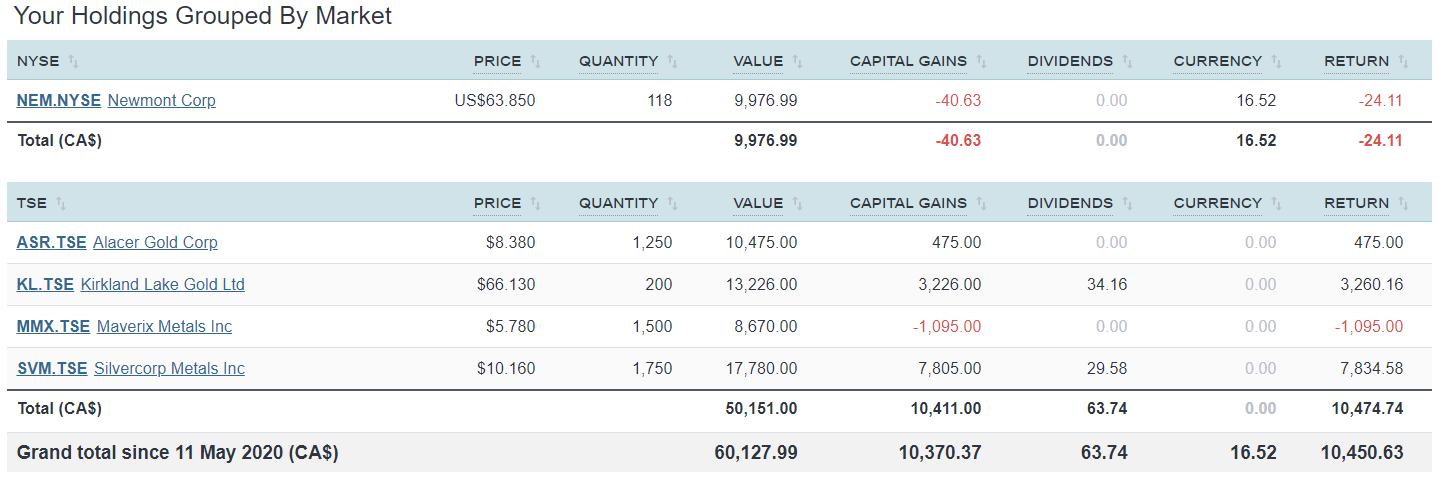
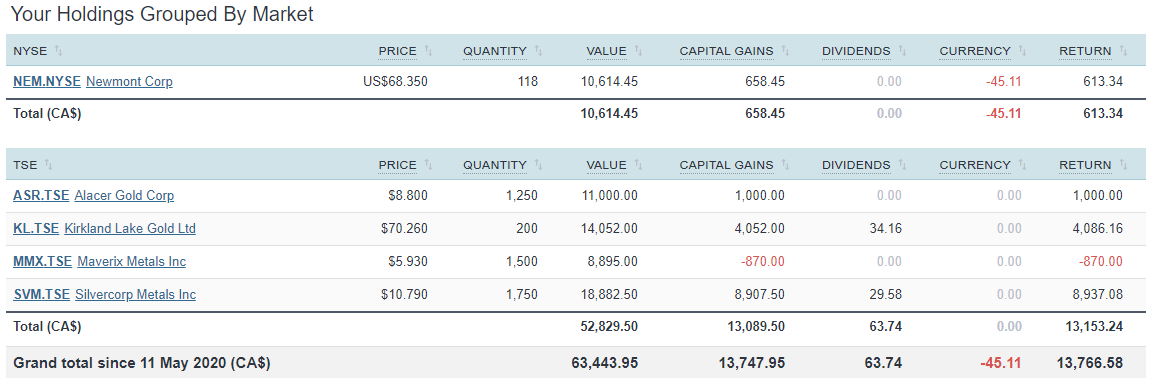
update

diff --git a/index.html b/index.html
@@ -292,10 +292,10 @@
         <div class="row  d-flex align-items-stretch">
 
 <p>
-  <h2>As of market close August 14, 2020</h2>
+  <h2>As of market close August 17, 2020</h2>
     <img src ="JuneVI.png"
-         alt ="As of close August 14, 2020" 
-         style = "width:1000px;height:400px" > <p>
+         alt ="As of close August 17, 2020" 
+         style = "width:1100px;height:420px" > <p>
           <p> These investments assume a $10,000 purchase of the recommended stock at the time of reccomendation and displays the theoretical total return since the recommendation. 
   </p>
 
